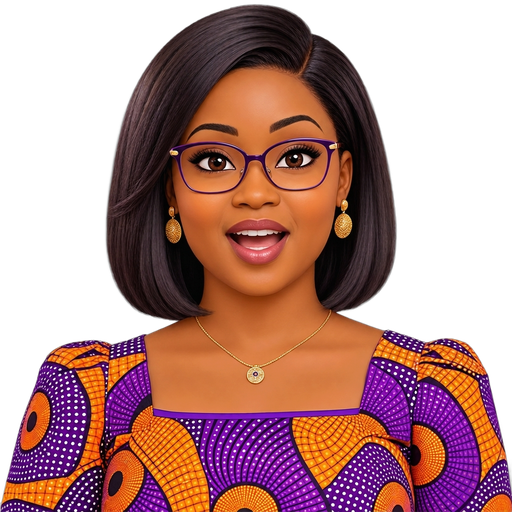
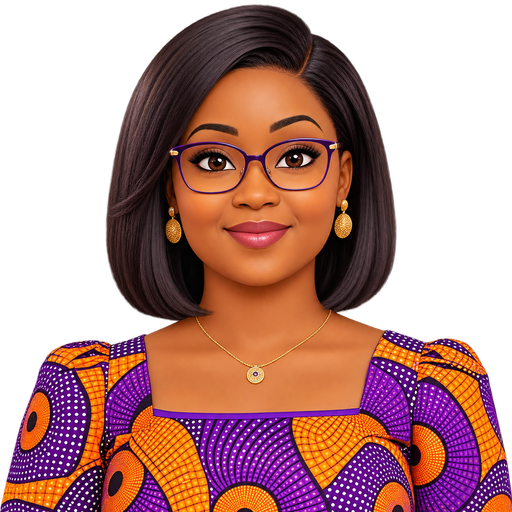
Profs : Malika bouche fermée, Narcisse (remplace Nassis)
Claude-Session: https://claude.ai/code/session_012XfXoFJMz4eeQe1T1sovEr

diff --git a/lexi_bibliotheque/code/tuteur_bloc.dart b/lexi_bibliotheque/code/tuteur_bloc.dart
@@ -25,7 +25,7 @@ const List<List<Object>> _lxtProfs = [
   ['abdul', 'Abdul', 24, '🧔🏿', 'm', 2],
   ['doudou', 'Doudou', 0, '🐘', 'm', 2],
   ['letty', 'Letty', 26, '👩🏽', 'f', 3],
-  ['nassis', 'Nassis', 29, '👨🏾', 'm', 3],
+  ['narcisse', 'Narcisse', 29, '👨🏾', 'm', 3],
   ['karine', 'Karine', 30, '👩🏾💼', 'f', 4],
   ['sagesse', 'Sagesse', 0, '🦉', 'f', 4],
   ['malika', 'Malika', 35, '👩🏽🏫', 'f', 5],
